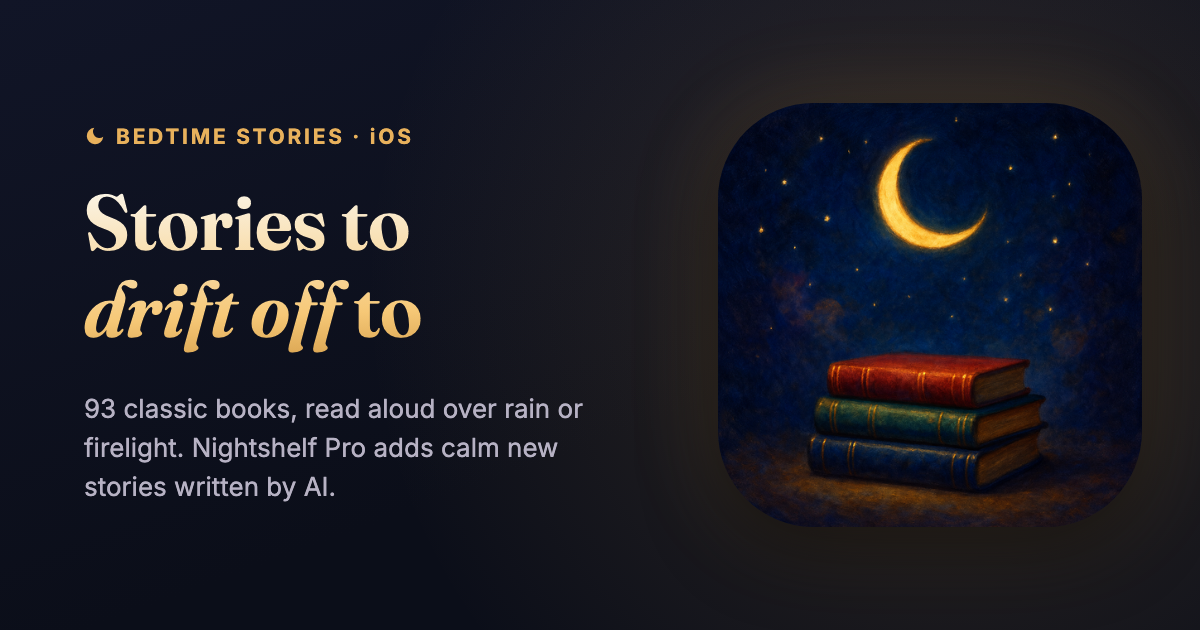
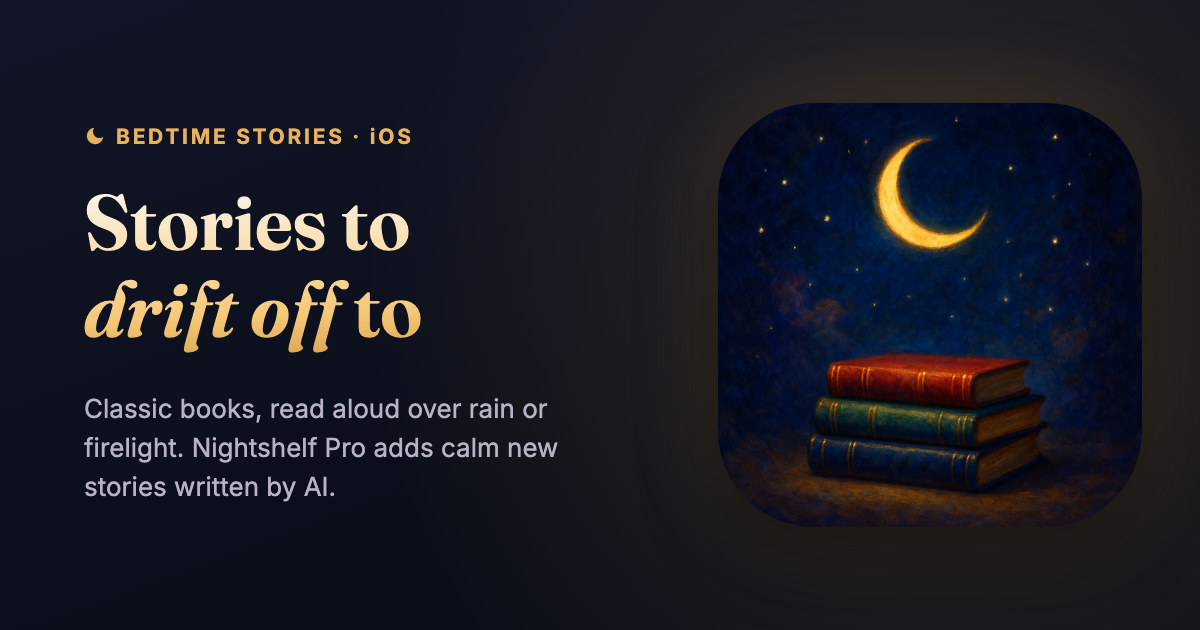
Keep Nightshelf web copy accurate across installed versions

Changed region(s): [[0.0617, 0.6333, 0.4933, 0.6635]]

diff --git a/nightshelf/index.html b/nightshelf/index.html
@@ -10,23 +10,23 @@
   <meta name="theme-color" content="#0B0E19">
   <title>Nightshelf — sleep stories &amp; bedtime reading for iOS</title>
   
-  <meta name="description" content="Bedtime stories for iPhone. 93 classic books read aloud over rain or firelight, plus calm new AI-written stories with Nightshelf Pro.">
+  <meta name="description" content="Bedtime stories for iPhone. Classic books read aloud over rain or firelight, plus calm new AI-written stories with Nightshelf Pro.">
   <meta name="robots" content="index, follow">
   <link rel="canonical" href="https://hypersage.ai/nightshelf/">
 
   <meta property="og:type" content="website">
   <meta property="og:title" content="Nightshelf — Bedtime stories, read aloud">
-  <meta property="og:description" content="93 classic books, read aloud over rain or firelight. Nightshelf Pro adds calm new stories written by AI.">
+  <meta property="og:description" content="Classic books, read aloud over rain or firelight. Nightshelf Pro adds calm new stories written by AI.">
   <meta property="og:url" content="https://hypersage.ai/nightshelf/">
   <meta property="og:site_name" content="Nightshelf">
-  <meta property="og:image" content="https://hypersage.ai/nightshelf/og-image.png?v=20260923-library19">
+  <meta property="og:image" content="https://hypersage.ai/nightshelf/og-image.png?v=20261005-neutral">
   <meta property="og:image:width" content="1200">
   <meta property="og:image:height" content="630">
   <meta property="og:image:alt" content="Nightshelf — stories to drift off to: stacked books beneath a crescent moon">
   <meta name="twitter:card" content="summary_large_image">
   <meta name="twitter:title" content="Nightshelf — Bedtime stories, read aloud">
-  <meta name="twitter:description" content="Complete bedtime classics, read aloud in a soft, sleepy voice. Nightshelf Pro adds calm new stories written by AI.">
-  <meta name="twitter:image" content="https://hypersage.ai/nightshelf/og-image.png?v=20260923-library19">
+  <meta name="twitter:description" content="Bedtime classics, read aloud in a soft, sleepy voice. Nightshelf Pro adds calm new stories written by AI.">
+  <meta name="twitter:image" content="https://hypersage.ai/nightshelf/og-image.png?v=20261005-neutral">
   <meta name="twitter:image:alt" content="Nightshelf — stories to drift off to: stacked books beneath a crescent moon">
 
   <link rel="icon" type="image/png" href="app-icon.png">
@@ -271,13 +271,13 @@
       margin: 64px auto 0; padding-top: 34px; max-width: 680px;
       border-top: 1px solid var(--border);
     }
-    .stat { flex: 1 1 0; padding: 0 12px; position: relative; }
+    .stat { flex: 1 1 0; min-width: 0; padding: 0 7px; position: relative; }
     .stat + .stat::before {
       content: ''; position: absolute; left: 0; top: 12%; bottom: 12%;
       width: 1px; background: var(--border);
     }
     .stat .num {
-      font-family: var(--font-serif); font-size: 2.1rem; font-weight: 600;
+      font-family: var(--font-serif); font-size: clamp(1.5rem, 6.5vw, 2.1rem); font-weight: 600;
       color: var(--accent-bright); line-height: 1.3;
     }
     .stat .lbl { font-size: .8rem; color: var(--tertiary-fg); letter-spacing: 0.08em; text-transform: uppercase; line-height: 1.6; }
@@ -579,8 +579,8 @@
 
 
     /* ====================== FREE / PRO SHELF ========================
-       The shelf itself, as spines: 93 books = 19 free (gold) + 74 with
-       Pro (dim). Counts mirror the "A Shelf for the Night" card — 19 gold + 74 dim path segments, no more, no fewer.
+       An illustrative shelf of spines, with free and Pro choices.
+       This decoration is not a count or proportion of the current catalog.
        Static by default; the glow is progressive enhancement. */
     .shelfviz { max-width: 740px; margin: 56px auto 0; }
     .shelfviz svg { display: block; width: 100%; height: auto; }
@@ -618,7 +618,7 @@
   "name": "Nightshelf",
   "applicationCategory": "LifestyleApplication",
   "operatingSystem": "iOS",
-  "description": "Bedtime stories for iPhone. 93 classic books read aloud with ambient sound and a sleep timer, plus calm new stories written by AI with Nightshelf Pro.",
+  "description": "Bedtime stories for iPhone. Classic books read aloud with ambient sound and a sleep timer, plus calm new stories written by AI with Nightshelf Pro.",
   "url": "https://hypersage.ai/nightshelf/",
   "author": {
     "@type": "Organization",
@@ -637,7 +637,7 @@
       "name": "Do I need an account?",
       "acceptedAnswer": {
         "@type": "Answer",
-        "text": "No. There's nothing to sign up for and no password to remember. Your place in every story and your settings sync through your own private iCloud, so they'll be waiting on a new phone. Nightshelf keeps no copy on any server."
+        "text": "No. There's nothing to sign up for and no password to remember. Your reading progress, saved shelf and supported reading settings can sync through your own private iCloud. Ambient sound choices and their volume stay on this device. Nightshelf keeps no server copy of your synced progress."
       }
     },
     {
@@ -645,7 +645,7 @@
       "name": "What's free, and what needs Nightshelf Pro?",
       "acceptedAnswer": {
         "@type": "Answer",
-        "text": "Nineteen of the ninety-three classic books are free and complete. With five Originals and eleven selected tales, that makes 35 free listening choices. You get the on-device voice, every sound and piece of sleep music, the sleep timer, and screen dimming, with no time limit and no ads. Nightshelf Pro opens the other seventy-four books, the six AI narrators, 90- and 120-minute sleep timers, and Tonight's Story. Prices are shown in the app, and the annual plan includes a 7-day free trial if your Apple Account is eligible."
+        "text": "The free shelf includes classic books, Nightshelf Originals and selected tales. The app labels which choices are free and which are included with Pro. You get the on-device voice, every sound and piece of sleep music, the sleep timer, and screen dimming, with no time limit and no ads. Nightshelf Pro opens more of the library, the six AI narrators, 90- and 120-minute sleep timers, and Tonight's Story. Prices are shown in the app, and the annual plan includes a 7-day free trial if your Apple Account is eligible."
       }
     },
     {
@@ -658,10 +658,10 @@
     },
     {
       "@type": "Question",
-      "name": "Are the books abridged?",
+      "name": "Which editions are included?",
       "acceptedAnswer": {
         "@type": "Answer",
-        "text": "No. Every classic on the shelf is the complete text, chapter for chapter, drawn from public-domain editions."
+        "text": "The library includes novels, collections, retellings and selected tales. Editions can omit illustrations, notes or other supporting material. In the player, open More options → About this book for a title’s format, source and credits."
       }
     },
     {
@@ -746,9 +746,9 @@
       <p class="fineprint">No account. No ads. Just goodnights.</p>
       <div class="stat-strip">
         
-        <div class="stat"><div class="num">93</div><div class="lbl">Classic books</div></div>
-        <div class="stat"><div class="num">24</div><div class="lbl">Selected tales</div></div>
-        <div class="stat"><div class="num">35</div><div class="lbl">Free choices</div></div>
+        <div class="stat"><div class="num">Books</div><div class="lbl">Classic stories</div></div>
+        <div class="stat"><div class="num">Tales</div><div class="lbl">Short listens</div></div>
+        <div class="stat"><div class="num">Free</div><div class="lbl">Choices to try</div></div>
       </div>
     </div>
   </header>
@@ -802,17 +802,17 @@
         <div class="feature reveal">
           <div class="ic"><svg viewBox="0 0 24 24" fill="none" stroke="currentColor" stroke-width="1.7" stroke-linecap="round" stroke-linejoin="round"><rect x="3.5" y="4" width="17" height="4.4" rx="1.2"/><rect x="3.5" y="9.8" width="17" height="4.4" rx="1.2"/><rect x="3.5" y="15.6" width="17" height="4.4" rx="1.2"/><line x1="6.5" y1="6.2" x2="8.2" y2="6.2"/><line x1="6.5" y1="12" x2="8.2" y2="12"/><line x1="6.5" y1="17.8" x2="8.2" y2="17.8"/></svg></div>
           <h3>A Shelf for the Night</h3>
-          <p>Ninety-three classic books, from Grimm's fairy tales to Austen, Verne and ancient philosophy. Nineteen are free; Nightshelf Pro opens the other seventy-four.</p>
+          <p>Classic books, from Grimm's fairy tales to Austen, Verne and ancient philosophy. Start with the free shelf; Nightshelf Pro opens more of the library.</p>
         </div>
         <div class="feature reveal">
           <div class="ic"><svg viewBox="0 0 24 24" fill="none" stroke="currentColor" stroke-width="1.7" stroke-linecap="round" stroke-linejoin="round"><path d="M6 3.5h12v17l-6-4-6 4z"/><path d="M9 7h6M9 10h6"/></svg></div>
           <h3>Find a Familiar Tale</h3>
-          <p>Open Snow White, Cinderella, Sleeping Beauty and nine other familiar tales directly, with their own saved place. These are complete selections from the classic collections, with running times and notes about each version's tone.</p>
+          <p>Open Snow White, Cinderella, Sleeping Beauty and other familiar tales directly, with their own saved place. These are standalone selections from the classic collections, with running times and notes about each version's tone.</p>
         </div>
         <div class="feature reveal">
           <div class="ic"><svg viewBox="0 0 24 24" fill="none" stroke="currentColor" stroke-width="1.7" stroke-linecap="round" stroke-linejoin="round"><path d="M3 5c3-1 6-1 9 1 3-2 6-2 9-1v15c-3-1-6-1-9 1-3-2-6-2-9-1z"/><path d="M12 6v15"/></svg></div>
           <h3>Explore a Wider Library</h3>
-          <p>Discover Frankenstein, Journey to the Centre of the Earth, Meditations and Tales from Shakespeare among twelve newly added books. Shakespeare's stories are Charles and Mary Lamb's prose retellings; the Odyssey is Samuel Butler's prose translation.</p>
+          <p>Discover Frankenstein, Journey to the Centre of the Earth, Meditations and Tales from Shakespeare in the classic library. Shakespeare's stories are Charles and Mary Lamb's prose retellings; the Odyssey is Samuel Butler's prose translation.</p>
         </div>
         <div class="feature reveal">
           <div class="ic"><svg viewBox="0 0 24 24" fill="none" stroke="currentColor" stroke-width="1.7" stroke-linecap="round" stroke-linejoin="round"><circle cx="12" cy="12" r="9"/><path d="M15.5 8.5l-2 5-5 2 2-5z"/></svg></div>
@@ -834,7 +834,7 @@
         <div class="feature reveal">
           <div class="ic"><svg viewBox="0 0 24 24" fill="none" stroke="currentColor" stroke-width="1.7" stroke-linecap="round" stroke-linejoin="round"><rect x="5" y="10.5" width="14" height="9.5" rx="2"/><path d="M8 10.5V7.5a4 4 0 0 1 8 0v3"/><circle cx="12" cy="15.2" r="1.3"/></svg></div>
           <h3>Private by Design</h3>
-          <p>No account, no ads, and no trackers in the app. Your place and settings stay on your phone, synced only through your own iCloud. Tonight's Story asks before anything you choose or type leaves your phone, and the <a href="privacy.html">privacy policy</a> shows exactly what the AI narrators send and where it goes.</p>
+          <p>No account, no ads, and no trackers in the app. Your reading progress, saved shelf and supported reading settings can sync through your own iCloud. Ambient sound choices and their volume stay on this device. Tonight's Story asks before anything you choose or type leaves your phone, and the <a href="privacy.html">privacy policy</a> shows exactly what the AI narrators send and where it goes.</p>
         </div>
         <div class="feature reveal">
           <div class="ic"><svg viewBox="0 0 24 24" fill="none" stroke="currentColor" stroke-width="1.7" stroke-linecap="round" stroke-linejoin="round"><path d="M4 12.5a4.5 4.5 0 0 1 4.5-4.5 5.5 5.5 0 0 1 10.7 1.6A4 4 0 0 1 18.5 17H8.5A4.5 4.5 0 0 1 4 12.5z"/><path d="M12 11v5"/><path d="M9.8 13.8L12 16l2.2-2.2"/></svg></div>
@@ -845,19 +845,19 @@
       
       <figure class="shelfviz reveal">
         <svg viewBox="0 0 770 150" aria-hidden="true" focusable="false">
-          <text class="lab" x="14" y="20">93 classic books</text>
-          <path class="spines free" d="M14 108V48M21.8 108V36M29.6 108V52M37.4 108V44M45.2 108V56M53 108V39M60.8 108V50M68.6 108V48M76.4 108V36M84.2 108V52M92 108V44M99.8 108V56M107.6 108V39M115.4 108V50M123.2 108V48M131 108V36M138.8 108V52M146.6 108V44M154.4 108V56"/>
-          <path class="spines pro" d="M180 108V48M187.8 108V36M195.6 108V52M203.4 108V44M211.2 108V56M219 108V39M226.8 108V50M234.6 108V48M242.4 108V36M250.2 108V52M258 108V44M265.8 108V56M273.6 108V39M281.4 108V50M289.2 108V48M297 108V36M304.8 108V52M312.6 108V44M320.4 108V56M328.2 108V39M336 108V50M343.8 108V48M351.6 108V36M359.4 108V52M367.2 108V44M375 108V56M382.8 108V39M390.6 108V50M398.4 108V48M406.2 108V36M414 108V52M421.8 108V44M429.6 108V56M437.4 108V39M445.2 108V50M453 108V48M460.8 108V36M468.6 108V52M476.4 108V44M484.2 108V56M492 108V39M499.8 108V50M507.6 108V48M515.4 108V36M523.2 108V52M531 108V44M538.8 108V56M546.6 108V39M554.4 108V50M562.2 108V48M570 108V36M577.8 108V52M585.6 108V44M593.4 108V56M601.2 108V39M609 108V50M616.8 108V48M624.6 108V36M632.4 108V52M640.2 108V44M648 108V56M655.8 108V39M663.6 108V50M671.4 108V48M679.2 108V36M687 108V52M694.8 108V44M702.6 108V56M710.4 108V39M718.2 108V50M726 108V48M733.8 108V36M741.6 108V52M749.4 108V44"/>
+          <text class="lab" x="14" y="20">A shelf for the night</text>
+          <path class="spines free" d="M20 108V48M43 108V36M66 108V52M89 108V44M112 108V56M135 108V39M158 108V50M181 108V48"/>
+          <path class="spines pro" d="M235 108V48M260 108V36M285 108V52M310 108V44M335 108V56M360 108V39M385 108V50M410 108V48M435 108V48M460 108V36M485 108V52M510 108V44M535 108V56M560 108V39M585 108V50M610 108V48M635 108V48M660 108V36M685 108V52M710 108V44"/>
           <rect x="8" y="111" width="754" height="3" rx="1.5" fill="rgba(243,239,230,0.20)"/>
-          <path d="M14 124H160" stroke="rgba(232,177,92,0.45)" stroke-width="2" stroke-linecap="round" fill="none"/>
-          <path d="M180 124H755" stroke="rgba(243,239,230,0.14)" stroke-width="2" stroke-linecap="round" fill="none"/>
+          <path d="M20 124H181" stroke="rgba(232,177,92,0.45)" stroke-width="2" stroke-linecap="round" fill="none"/>
+          <path d="M235 124H710" stroke="rgba(243,239,230,0.14)" stroke-width="2" stroke-linecap="round" fill="none"/>
           <circle cx="196" cy="18" r="1.2" fill="rgba(243,239,230,0.45)"/>
           <circle cx="452" cy="26" r="1.1" fill="rgba(154,140,214,0.45)"/>
           <circle cx="700" cy="14" r="1.3" fill="rgba(246,200,119,0.4)"/>
         </svg>
         
-        <div class="shelf-axis" aria-hidden="true"><span class="a">19 free</span><span class="b">74 more with Nightshelf Pro</span></div>
-        <figcaption class="wd-cap">The library contains 93 classic books, 11 AI-written Nightshelf Originals and 24 complete tales selected from the classic books: 128 listening choices, with 35 free and 93 included with Pro. The selected tales also appear in their source collections; they are not additional books. Every prepared text downloads with the app.</figcaption>
+        <div class="shelf-axis" aria-hidden="true"><span class="a">Free</span><span class="b">With Pro</span></div>
+        <figcaption class="wd-cap">Choose from classic books, AI-written Nightshelf Originals and selected tales. The selected tales also appear in their source collections; they are not additional books. Prepared texts download with the app. Availability and free or Pro access are shown in your installed version; see <a href="#editions">edition details</a> for the formats and source credits.</figcaption>
       </figure>
 
       <figure class="listen-card reveal" id="listen">
@@ -992,19 +992,19 @@
       <div class="faq-list reveal">
         <details class="faq">
           <summary>Do I need an account?</summary>
-          <p>No. There's nothing to sign up for and no password to remember. Your place in every story and your settings sync through your own private iCloud, so they'll be waiting on a new phone. Nightshelf keeps no copy on any server.</p>
+          <p>No. There's nothing to sign up for and no password to remember. Your reading progress, saved shelf and supported reading settings can sync through your own private iCloud. Ambient sound choices and their volume stay on this device. Nightshelf keeps no server copy of your synced progress.</p>
         </details>
         <details class="faq">
           <summary>What's free, and what needs Nightshelf Pro?</summary>
-          <p>Nineteen of the ninety-three classic books are free and complete. With five Originals and eleven selected tales, that makes 35 free listening choices. You get the on-device voice, every sound and piece of sleep music, the sleep timer, and screen dimming, with no time limit and no ads. Nightshelf Pro opens the other seventy-four books, the six AI narrators, 90- and 120-minute sleep timers, and Tonight's Story. Prices are shown in the app, and the annual plan includes a 7-day free trial if your Apple Account is eligible.</p>
+          <p>The free shelf includes classic books, Nightshelf Originals and selected tales. The app labels which choices are free and which are included with Pro. You get the on-device voice, every sound and piece of sleep music, the sleep timer, and screen dimming, with no time limit and no ads. Nightshelf Pro opens more of the library, the six AI narrators, 90- and 120-minute sleep timers, and Tonight's Story. Prices are shown in the app, and the annual plan includes a 7-day free trial if your Apple Account is eligible.</p>
         </details>
         <details class="faq">
           <summary>Does it work offline?</summary>
           <p>Yes, the whole shelf does. Every book ships inside the app, and the on-device voice reads any of them with the network off, ambient sound and sleep timer included. Only the six cloud narrators and Tonight's Story need a connection.</p>
         </details>
-        <details class="faq">
-          <summary>Are the books abridged?</summary>
-          <p>No. Every classic on the shelf is the complete text, chapter for chapter, drawn from public-domain editions.</p>
+        <details class="faq" id="editions">
+          <summary>Which editions are included?</summary>
+          <p>The library includes novels, collections, retellings and selected tales. Editions can omit illustrations, notes or other supporting material. In the player, open More options → About this book for a title’s format, source and credits.</p>
         </details>
         <details class="faq">
           <summary>Where do my words go?</summary>
@@ -1024,7 +1024,7 @@
         <svg class="moon" viewBox="0 0 24 24" fill="currentColor" aria-hidden="true"><path d="M21 12.8A9 9 0 1 1 11.2 3a7 7 0 0 0 9.8 9.8z"/></svg>
         <h2 class="grad-text">Drift off tonight</h2>
         
-        <p>A bedtime story, read aloud, every night. Start with nineteen free classic books.</p>
+        <p>A bedtime story, read aloud, every night. Start with the free shelf.</p>
         <div class="cta-row">
           <a href="https://apps.apple.com/app/id6792761643" class="btn" target="_blank" rel="noopener">Download on the App Store</a>
           <a href="privacy.html" class="btn ghost">Privacy</a>

diff --git a/nightshelf/support.html b/nightshelf/support.html
@@ -7,18 +7,18 @@
   <meta name="theme-color" content="#0C0F1A">
   <title>Support — Nightshelf</title>
   
-  <meta name="description" content="Help with Nightshelf — 93 classic books read aloud until you fall asleep. Email support@hypersage.ai for anything not answered here.">
+  <meta name="description" content="Help with Nightshelf — classic books read aloud until you fall asleep. Email support@hypersage.ai for anything not answered here.">
   <link rel="canonical" href="https://hypersage.ai/nightshelf/support.html">
   <meta property="og:type" content="website">
   <meta property="og:title" content="Support — Nightshelf">
-  <meta property="og:description" content="Help with Nightshelf — 93 classic books read aloud until you fall asleep. Email support@hypersage.ai for anything not answered here.">
+  <meta property="og:description" content="Help with Nightshelf — classic books read aloud until you fall asleep. Email support@hypersage.ai for anything not answered here.">
   <meta property="og:url" content="https://hypersage.ai/nightshelf/support.html">
   <meta property="og:site_name" content="Nightshelf">
-  <meta property="og:image" content="https://hypersage.ai/nightshelf/og-image.png?v=20260923-library19">
+  <meta property="og:image" content="https://hypersage.ai/nightshelf/og-image.png?v=20261005-neutral">
   <meta property="og:image:width" content="1200">
   <meta property="og:image:height" content="630">
   <meta name="twitter:card" content="summary_large_image">
-  <meta name="twitter:image" content="https://hypersage.ai/nightshelf/og-image.png?v=20260923-library19">
+  <meta name="twitter:image" content="https://hypersage.ai/nightshelf/og-image.png?v=20261005-neutral">
   <link rel="icon" type="image/png" href="app-icon.png">
   <link rel="preconnect" href="https://fonts.googleapis.com">
   <link rel="preconnect" href="https://fonts.gstatic.com" crossorigin>
@@ -85,15 +85,15 @@
     <p class="updated">One developer reads every email. You'll get a real reply, usually within a day or two — <a href="mailto:support@hypersage.ai">support@hypersage.ai</a>.</p>
 
     <h2>Do I need a connection?</h2>
-    <p>Not for the library. All 93 classic books ship inside the app, and the on-device narrator reads them with no network at all — a plane, a basement, or airplane mode are all fine. Only the six cloud narrators and writing a new Tonight's Story need a connection.</p>
+    <p>Not for the library. The included classic books ship inside the app, and the on-device narrator reads them with no network at all — a plane, a basement, or airplane mode are all fine. Only the six cloud narrators and writing a new Tonight's Story need a connection.</p>
 
     <h2>Which books are free?</h2>
-    <p>Nineteen of the ninety-three — among them <em>The Wind in the Willows</em>, <em>Alice's Adventures in Wonderland</em>, <em>A Christmas Carol</em>, <em>Treasure Island</em>, <em>Black Beauty</em>, Grimm, Aesop, <em>Frankenstein</em>, <em>Journey to the Centre of the Earth</em>, <em>Meditations</em> and <em>Tales from Shakespeare</em>. They stay free for as long as you keep the app, with no account and no ads. Nightshelf Pro opens the other seventy-four, plus the six cloud narrators, Tonight's Story, and sleep timers past an hour.</p>
-    <p>All ninety-three are <em>installed</em> either way — that is why the shelf works offline — but a locked book shows a padlock until you subscribe.</p>
+    <p>The free shelf includes <em>The Wind in the Willows</em>, <em>Alice's Adventures in Wonderland</em>, <em>A Christmas Carol</em>, <em>Treasure Island</em>, <em>Black Beauty</em>, Grimm, Aesop, <em>Frankenstein</em>, <em>Journey to the Centre of the Earth</em>, <em>Meditations</em> and <em>Tales from Shakespeare</em>. They stay free for as long as you keep the app, with no account and no ads. Nightshelf Pro opens more of the library, plus the six cloud narrators, Tonight's Story, and sleep timers past an hour.</p>
+    <p>The included books are <em>installed</em> either way — that is why the shelf works offline — but a locked book shows a padlock until you subscribe.</p>
 
     <h2>Where are the familiar fairy tales?</h2>
-    <p>Open Familiar Tales on Home for twelve complete selections, including Snow White (the historical Snowdrop version), Cinderella and Sleeping Beauty. Their source books remain available too. Search also recognizes familiar alternate titles, including Snowdrop and The Princess and the Pea.</p>
-    <p>The 93 classic books, 11 AI-written Originals and 24 selected tales make 128 listening choices: 35 free and 93 with Pro. Selected tales come from the included classic books, so they are not counted as extra books. They have their own saved place and running time. Familiar Tales stops at the selected tale's ending; Short listens can continue to another eligible tale when continuation is enabled and the timer has time left.</p>
+    <p>Open Familiar Tales on Home for familiar selected tales, including Snow White (the historical Snowdrop version), Cinderella and Sleeping Beauty. Their source books remain available too. Search also recognizes familiar alternate titles, including Snowdrop and The Princess and the Pea.</p>
+    <p>The library offers classic books, AI-written Nightshelf Originals and selected tales. Your installed version shows the available titles and their free or Pro access. Selected tales come from the included classic books, so they are not counted as extra books. They have their own saved place and running time. Familiar Tales stops at the selected tale's ending; Short listens can continue to another eligible tale when continuation is enabled and the timer has time left.</p>
 
     <h2>The narrator sounds flat</h2>
     <p>That is your iPhone's own voice. From Nightshelf 1.9.2, whenever your iPhone's voice is reading, Automatic uses the best English voice installed on your iPhone and switches by itself when you download a better one, and you can choose any installed voice in the voice menu, free. For a warmer sound, download one: in iOS Settings, open Accessibility → Spoken Content (Read &amp; Speak on newer iOS) → Voices → English, choose a voice marked Premium or Enhanced, and download it. Larger voices can be over 100 MB, so Wi-Fi helps. With Nightshelf Pro you can also choose one of the six AI narrators — Nova, Alloy, Fable, Onyx, Echo or Shimmer — for the whole night.</p>
@@ -110,7 +110,10 @@
     <p>Set the sleep timer before you start. Narration fades out rather than stopping abruptly, so it does not jolt you awake. Your place in the book is saved either way, so you can pick up wherever you drifted off.</p>
 
     <h2>My progress did not follow to my other device</h2>
-    <p>Progress syncs through your own private iCloud storage, so both devices need to be signed into the same Apple Account with iCloud Drive on. There is no Nightshelf account and no copy on any server of ours — with iCloud off, progress simply stays on the one device.</p>
+    <p>Progress syncs through your own private iCloud storage, so both devices need to be signed into the same Apple Account with iCloud Drive on. There is no Nightshelf account and no server copy of your synced progress. With iCloud off, progress stays on one device. Ambient sound choices and their volume are local to each device.</p>
+
+    <h2>Which edition am I listening to?</h2>
+    <p>The library includes novels, collections, retellings and selected tales. In the player, open More options → About this book for a title’s format, source and credits. Some editions omit illustrations, editorial notes or other supporting material.</p>
 
     <h2>Tonight's Story will not generate</h2>
     <p>It needs a connection and takes a few seconds to write. If it keeps failing, check your connection and try a shorter prompt. If the app says tonight's stories are spent, that is the daily cap — a few fresh stories a day, then it resets. Every book already on your shelf still reads aloud in the meantime.</p>
@@ -126,7 +129,7 @@
     <p>Email <a href="mailto:support@hypersage.ai?subject=Nightshelf%20bug%20report">support@hypersage.ai</a> with what you saw and what you were doing. Your device model and iOS version help a lot.</p>
 
     <h2>Where your data goes</h2>
-    <p>The <a href="privacy.html">privacy policy</a> has the full details. In short, the app has no account, no sign-in, no analytics, no third-party tracker and no advertising. Reading progress and settings live on your device and in your own private iCloud storage.</p>
+    <p>The <a href="privacy.html">privacy policy</a> has the full details. In short, the app has no account, no sign-in, no analytics, no third-party tracker and no advertising. Reading progress, your saved shelf and supported reading settings can sync through your private iCloud. Ambient sound choices and their volume stay on this device.</p>
     <p>The on-device narrator speaks every word on the phone, so no book text is sent for narration while an iPhone voice you chose is reading. If it is only standing in for a cloud narrator that was interrupted, the paragraphs ahead can still be sent, so that narrator can pick the story back up. From Nightshelf 1.9.3, AI narrators can read the books that come with Nightshelf without asking first — Nova for your first few minutes on each iPhone, or all night with Nightshelf Pro — and they are on from the start, with Automatic as the starting voice. The paragraph being read and the one after it go to <strong>Nightshelf's own server</strong> (hosted for us by Fly.io in the United States) and then to <strong>OpenAI</strong>, which gets only that text, the narrator's name and a reading-style note, with no ID. Our server sees your IP address, as any website does, and keeps a scrambled daily character count to limit use; with Pro, the request also carries the ID and receipt described in the <a href="privacy.html">privacy policy</a>. <strong>Settings → AI features → AI narrators for Nightshelf's books</strong> turns this off. If you said no when Nightshelf asked about its cloud features in an earlier version, on this iPhone or on an iPhone whose backup this one was restored from, the switch starts off, and because it syncs through iCloud, it is then off on your other devices too.</p>
     <p>Anything you choose or type is different: Tonight's Story, its cover, and an AI narrator reading a story you made need your permission first. From Nightshelf 1.9.3, the <strong>Tonight's Story &amp; your stories</strong> setting under Settings → AI features, not the AI narrators switch, turns them off. In Nightshelf 1.9.2 and earlier, every cloud narration asks first, including the books that come with Nightshelf.</p>
     <p>Starting with Nightshelf 1.9.6, your picks and detail go through Nightshelf's server to <strong>OpenAI</strong> to write a new story, after an updated writing permission on this device. An earlier permission does not authorize this change. Declining or dismissing the writing request leaves any earlier permission for covers and narration unchanged; you can manage writing separately in Settings → AI features, or turn off <strong>Tonight's Story &amp; your stories</strong> to withdraw all three. Earlier app versions continue sending writing requests to <strong>Anthropic</strong>. A cover's title, tone and setting go to <strong>OpenAI</strong> to be painted.</p>
@@ -134,7 +137,7 @@
     <p>Our server keeps a scrambled copy of a random ID so daily limits can be counted per device or subscription. From Nightshelf 1.9.3, a listener without Pro sends no such ID: Nova's welcome and ▶ auditions are counted against a scrambled copy of the IP address instead, and the record of how much of Nova's welcome you've heard stays on your iPhone and is never sent. Each phone has its own ID and keeps it through a reinstall; a phone that picks up a subscription bought in the app switches to the ID saved with that purchase. A subscription redeemed with an offer code has no such ID, so the server keeps a separate record for it — Apple's transaction IDs, the first device's random ID, and a bounded recent-device history of scrambled device IDs and first- and last-seen times — which the <a href="privacy.html">privacy policy</a> sets out in full. The server also keeps narration it has already made in a shared cache, filed under a fingerprint of the paragraph rather than under a device or subscription. No Nightshelf account or sign-in is required. Optional story details are sent as entered, so please leave personal information out.</p>
 
     <h2>Reviewers and press</h2>
-    <p>Reach out at <a href="mailto:support@hypersage.ai?subject=Nightshelf%20review%20request">support@hypersage.ai</a>. Nightshelf reads 93 classic books aloud at bedtime, from Grimm's fairy tales to Dracula, Sherlock Holmes and Poe, with ambient sound and a sleep timer. It also includes eleven Nightshelf Originals, written with AI for the app. Our thanks to the volunteer transcribers who typed the classics back into readable form.</p>
+    <p>Reach out at <a href="mailto:support@hypersage.ai?subject=Nightshelf%20review%20request">support@hypersage.ai</a>. Nightshelf reads classic books aloud at bedtime, from Grimm's fairy tales to Dracula, Sherlock Holmes and Poe, with ambient sound and a sleep timer. It also includes Nightshelf Originals, written with AI for the app. Our thanks to the volunteer transcribers who typed the classics back into readable form.</p>
 
     <a class="back" href="index.html">← Back to Nightshelf</a>
   </div>

diff --git a/nightshelf/terms.html b/nightshelf/terms.html
@@ -13,11 +13,11 @@
   <meta property="og:description" content="Terms of Service for the Nightshelf reading app.">
   <meta property="og:url" content="https://hypersage.ai/nightshelf/terms.html">
   <meta property="og:site_name" content="Nightshelf">
-  <meta property="og:image" content="https://hypersage.ai/nightshelf/og-image.png?v=20260923-library19">
+  <meta property="og:image" content="https://hypersage.ai/nightshelf/og-image.png?v=20261005-neutral">
   <meta property="og:image:width" content="1200">
   <meta property="og:image:height" content="630">
   <meta name="twitter:card" content="summary_large_image">
-  <meta name="twitter:image" content="https://hypersage.ai/nightshelf/og-image.png?v=20260923-library19">
+  <meta name="twitter:image" content="https://hypersage.ai/nightshelf/og-image.png?v=20261005-neutral">
   <link rel="icon" type="image/png" href="app-icon.png">
   <link rel="preconnect" href="https://fonts.googleapis.com">
   <link rel="preconnect" href="https://fonts.gstatic.com" crossorigin>
@@ -89,11 +89,11 @@
     <p>We grant you a personal, non-exclusive, non-transferable license to use Nightshelf for your own personal, non-commercial listening and reading on devices you own or control. You may not resell, redistribute, or reverse-engineer the app.</p>
 
     <h2>The stories</h2>
-    <p>The bundled classics are historic works supplied in editions reviewed for the app's release. Copyright terms vary by territory. Their text is included for your private use, and our thanks go to the volunteer transcribers who typed these pages back into readable form. The app also includes eleven prepared Nightshelf Originals, written with AI for Nightshelf. Unlike the classics, they are not public-domain works; five are free, and the rest are included with Nightshelf Pro. The library also offers 24 complete selected tales from its classic books, with access inherited from the source book. Across books, Originals and selections, 35 of the 128 listening choices are free and 93 are included with Pro. Custom bedtime stories you conjure in the app are written by AI, for your own personal enjoyment.</p>
+    <p>The bundled classics are historic works supplied in editions reviewed for the app's release. Copyright terms vary by territory. Their text is included for your private use, and our thanks go to the volunteer transcribers who typed these pages back into readable form. The app also includes prepared Nightshelf Originals, written with AI for Nightshelf. Unlike the classics, they are not public-domain works; the app identifies which are free and which are included with Nightshelf Pro. The library also offers selected tales from its classic books, with access inherited from the source book. Available titles and their free or Pro access are shown in your installed version. Formats include novels, collections and retellings; More options → About this book in the player describes the source and credits, including omitted supporting material where applicable. Custom bedtime stories you conjure in the app are written by AI, for your own personal enjoyment.</p>
 
     <h2>Nightshelf Pro</h2>
     
-    <p>All 93 classic books are installed with the app, so the shelf works offline. Nineteen are free to read; Nightshelf Pro opens the remaining 74, along with the six cloud narrators, Tonight's Story, and sleep timers longer than an hour. Tonight's Story has a daily limit — a few new stories a day, then it resets. Cloud narration with Nightshelf Pro has no nightly allowance to run through; its one ceiling is a fair-use limit, there to stop automated misuse. If that ceiling or an outage interrupts a story, the story carries on in the on-device voice, and the cloud narrator comes back on its own. We may adjust these limits.</p>
+    <p>The prepared texts are installed with the app and can be read or narrated by the on-device voice offline. The free shelf offers books and tales to try; Nightshelf Pro opens more of the library, along with the six cloud narrators, Tonight's Story, and sleep timers longer than an hour. Tonight's Story has a daily limit — a few new stories a day, then it resets. Cloud narration with Nightshelf Pro has no nightly allowance to run through; its one ceiling is a fair-use limit, there to stop automated misuse. If that ceiling or an outage interrupts a story, the story carries on in the on-device voice, and the cloud narrator comes back on its own. We may adjust these limits.</p>
     <p>A current, valid offer-code subscription can use the cloud narrators, Tonight's Story and story covers across your devices after its Apple receipt is verified. These devices share the subscription's service limits. The server keeps a bounded recent-device history, described in the <a href="privacy.html">privacy policy</a>; it does not impose a fixed five-device refusal.</p>
     <p>From Nightshelf 1.9.3, Nova, one of the six cloud narrators, also reads the first few minutes of Nightshelf's own books once on each iPhone without Nightshelf Pro, when the voice is set to Automatic; after that the on-device voice reads on. Those minutes are measured in text, not time, so a faster reading speed makes them shorter; every paragraph sent for Nova to read counts, including the next one, which is fetched early so the reading doesn't pause. They need a connection, they do not start or change a subscription, and Settings → AI features can turn AI narrators off.</p>
     <p>Nightshelf Pro is a recurring, auto-renewing subscription billed monthly or annually through your Apple Account. Where offered, the annual plan includes a 7-day free trial that converts to a paid subscription unless you cancel before the trial ends; the trial is shown only when your Apple Account is eligible.</p>

diff --git a/nightshelf/privacy.html b/nightshelf/privacy.html
@@ -14,11 +14,11 @@
   <meta property="og:description" content="Privacy Policy for the Nightshelf reading app.">
   <meta property="og:url" content="https://hypersage.ai/nightshelf/privacy.html">
   <meta property="og:site_name" content="Nightshelf">
-  <meta property="og:image" content="https://hypersage.ai/nightshelf/og-image.png?v=20260923-library19">
+  <meta property="og:image" content="https://hypersage.ai/nightshelf/og-image.png?v=20261005-neutral">
   <meta property="og:image:width" content="1200">
   <meta property="og:image:height" content="630">
   <meta name="twitter:card" content="summary_large_image">
-  <meta name="twitter:image" content="https://hypersage.ai/nightshelf/og-image.png?v=20260923-library19">
+  <meta name="twitter:image" content="https://hypersage.ai/nightshelf/og-image.png?v=20261005-neutral">
   <link rel="icon" type="image/png" href="app-icon.png">
   <link rel="preconnect" href="https://fonts.googleapis.com">
   <link rel="preconnect" href="https://fonts.gstatic.com" crossorigin>

diff --git a/tools/build_app_og.py b/tools/build_app_og.py
@@ -88,7 +88,7 @@ CARDS = {
         # "with Nightshelf Pro" is load-bearing and must never be trimmed away:
         # conjuring a story is Pro-only with NO free allowance (the backend hard-402s,
         # index.html:706-711). An unqualified "AI stories" line overclaims the free tier.
-        "sub": "93 classic books, read aloud over rain or firelight. Nightshelf&nbsp;Pro adds calm new stories written by AI.",
+        "sub": "Classic books, read aloud over rain or firelight. Nightshelf&nbsp;Pro adds calm new stories written by AI.",
     },
     "mythwright": {
         "art": "app-icon.png",
